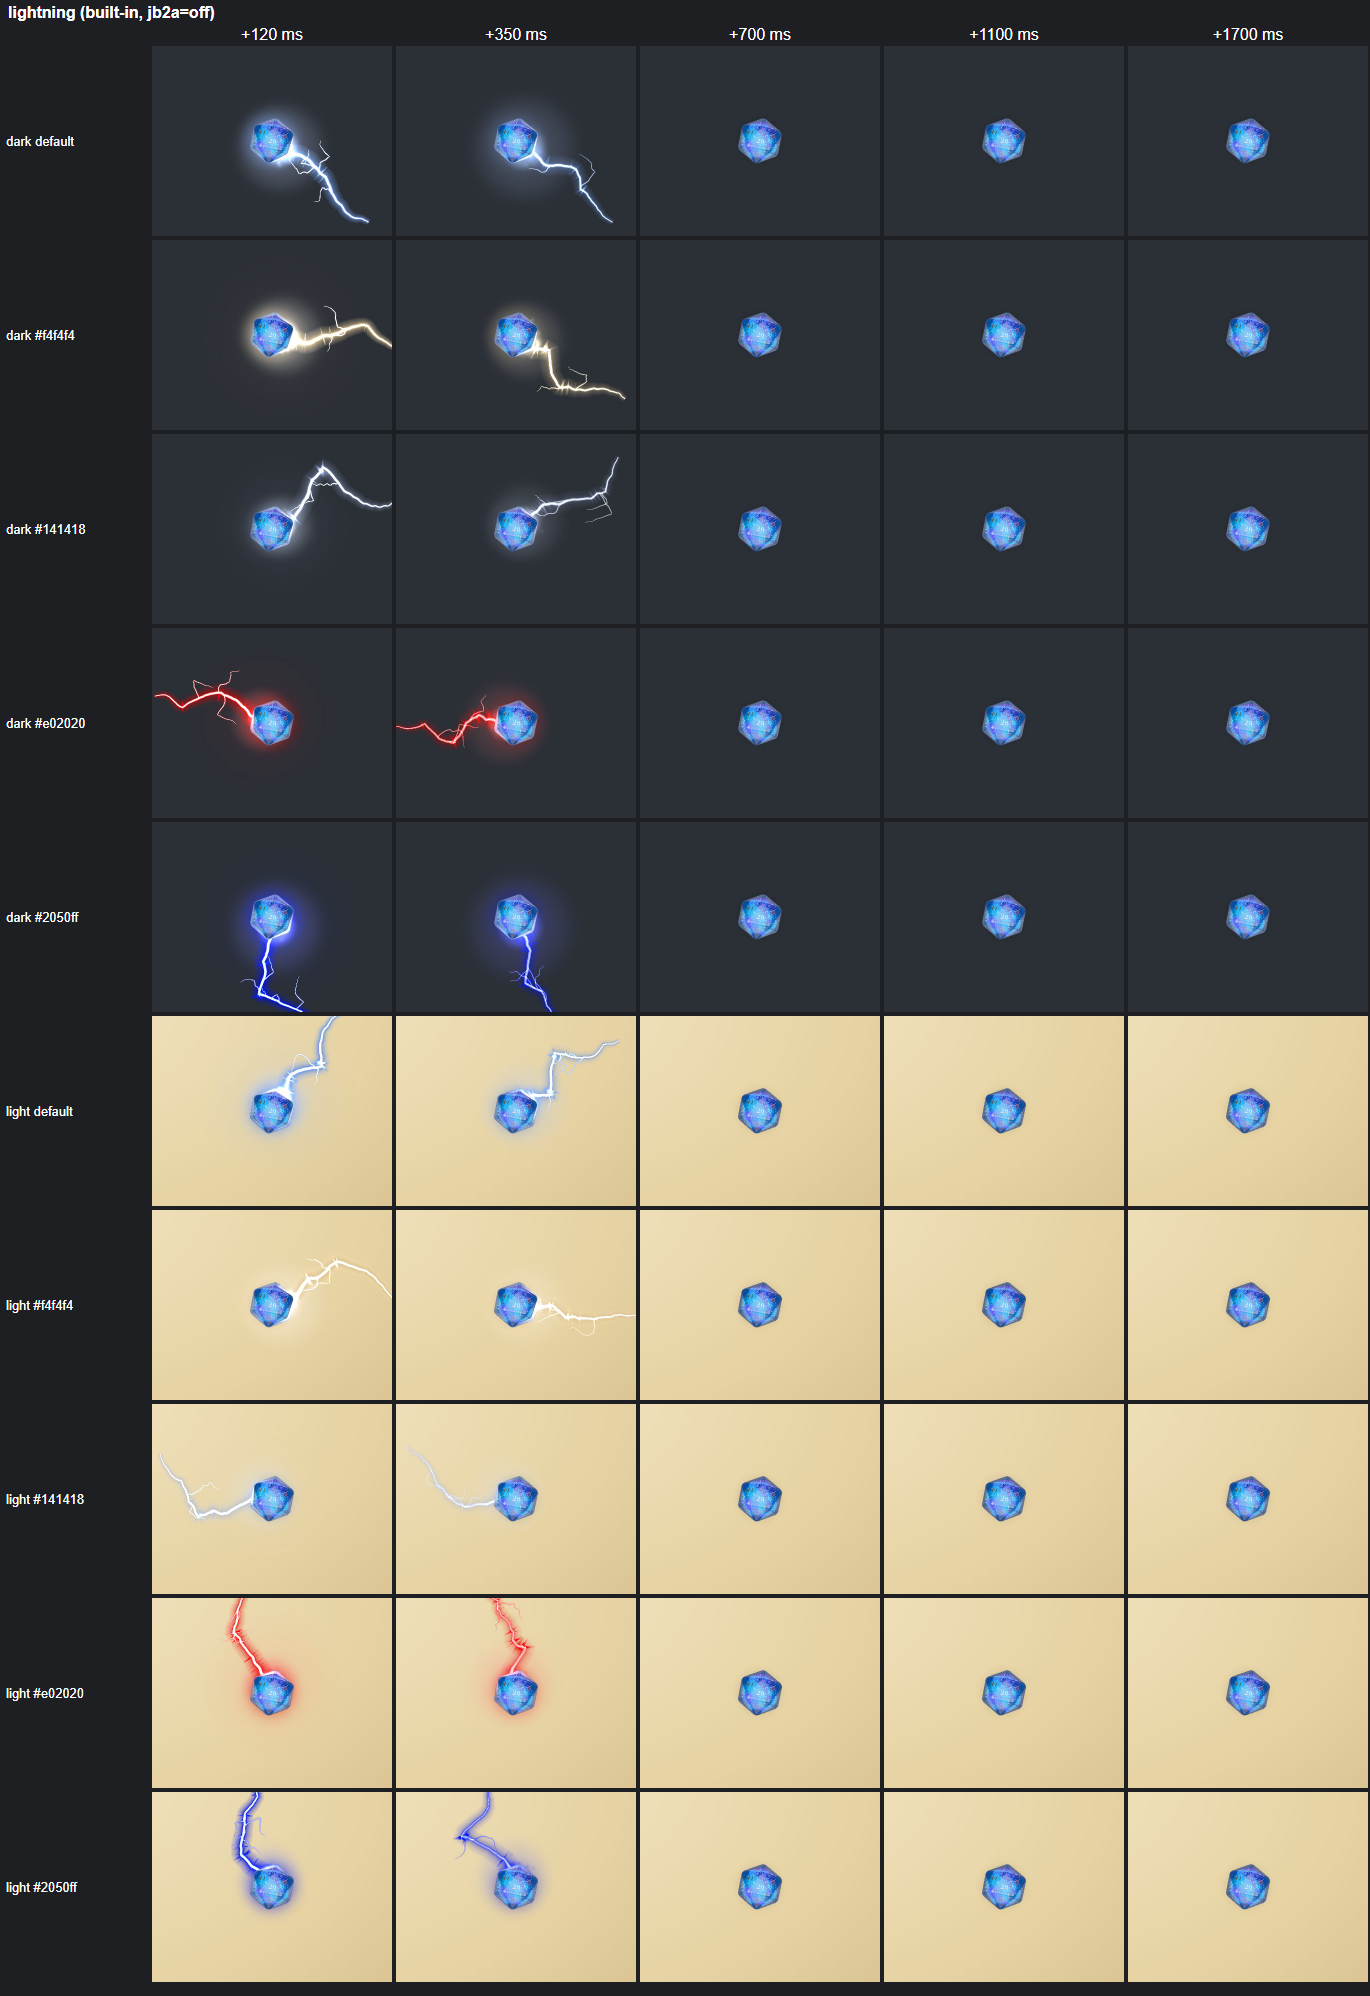
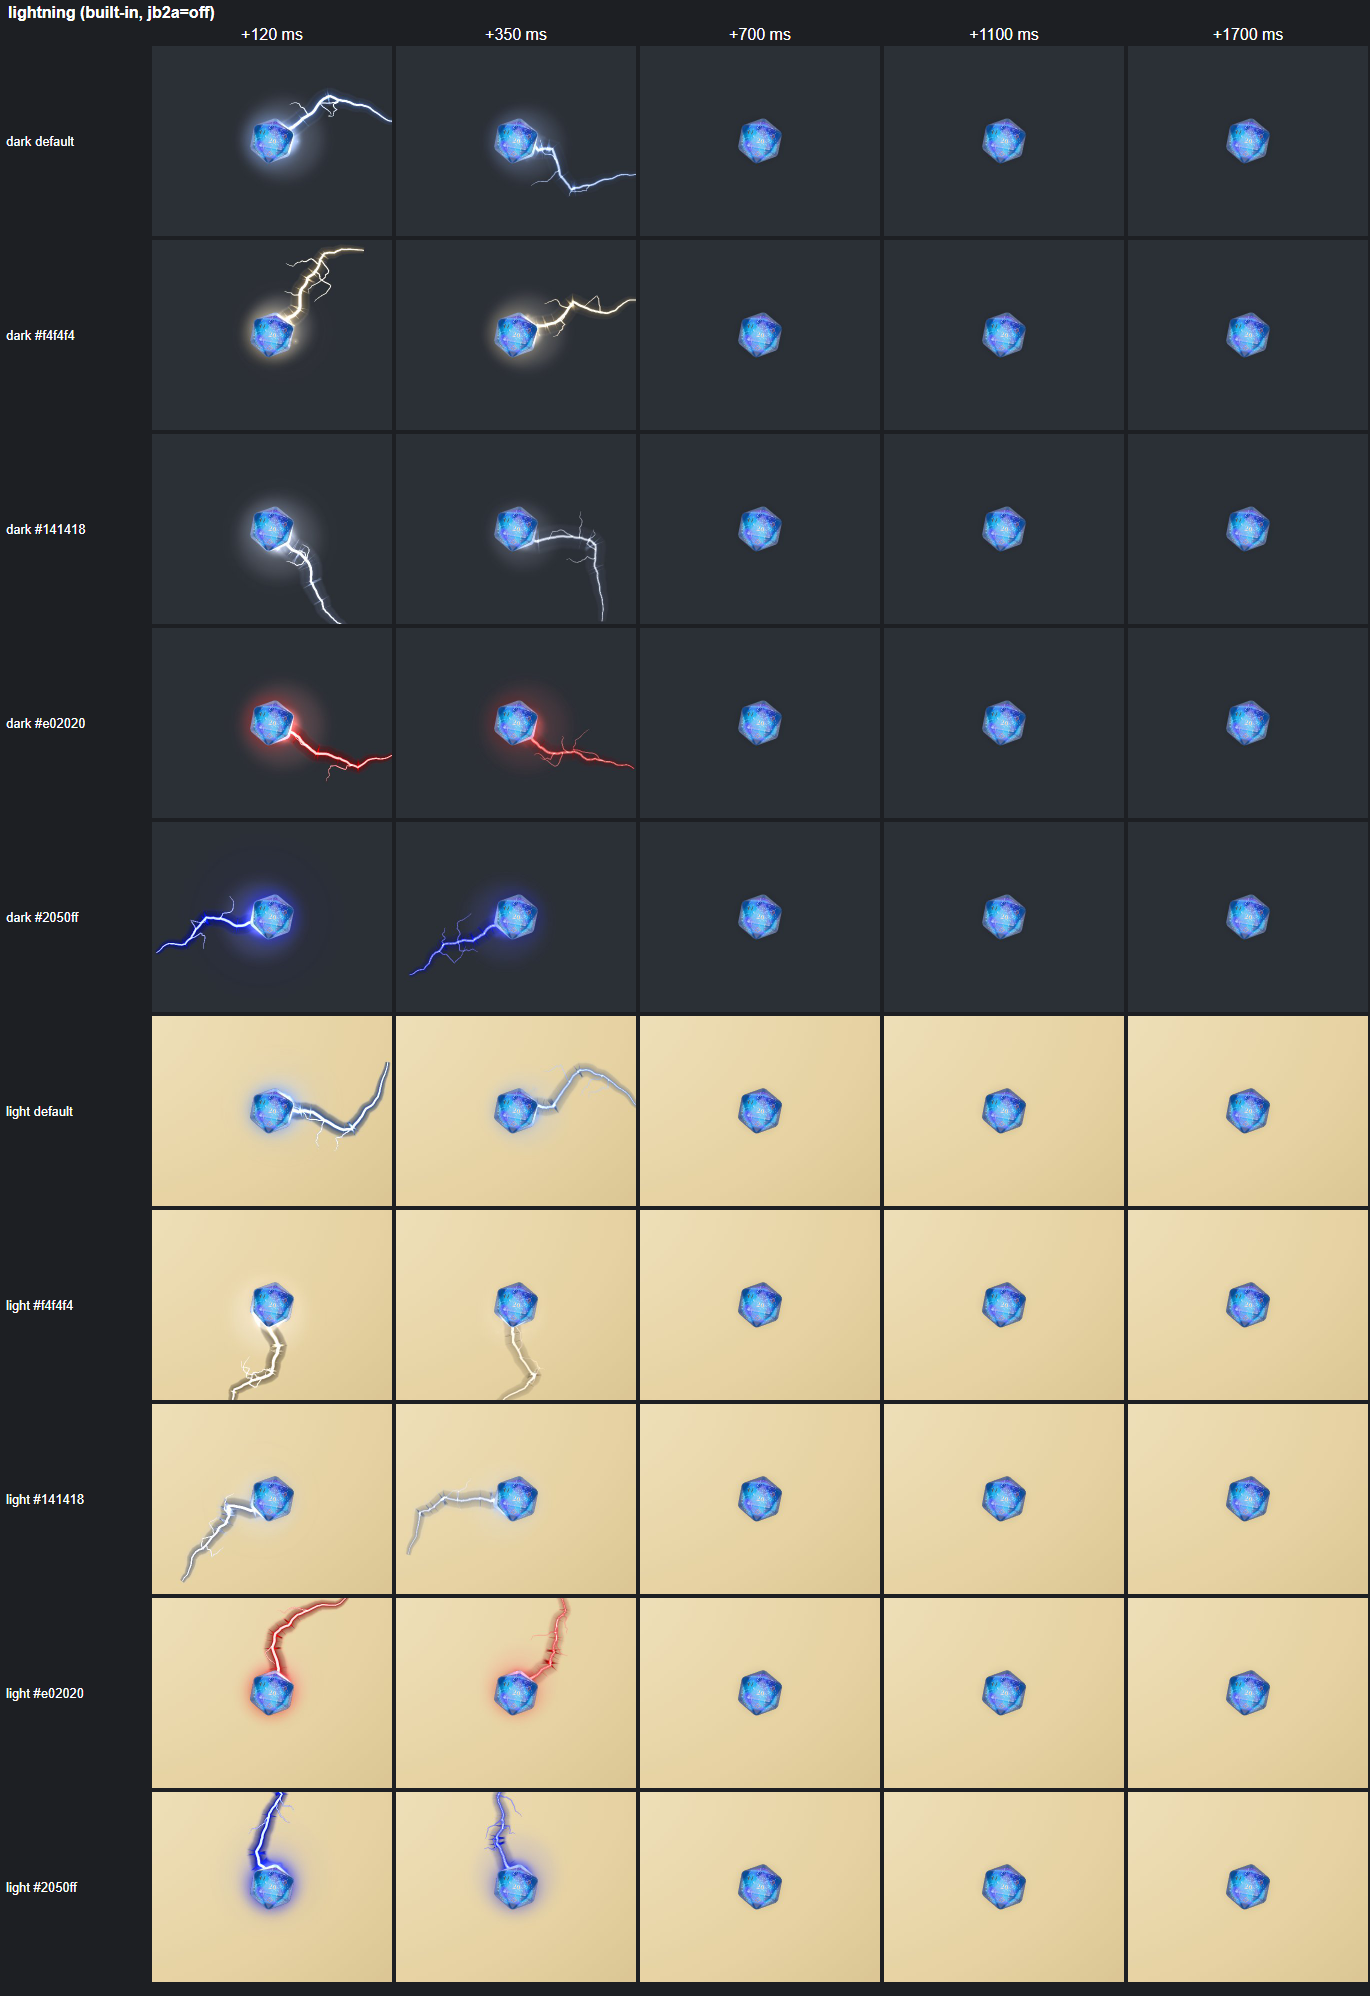
fix(fx): cap lightning brightness, strengthen pale and near-black glow
Per-layer alpha is capped at 1.5 and intensity above 1 grows the bolt
instead of brightening it (halo/shadow widths stop at k 1.2, floor glow
uses the clamped intensity), so colour survives at intensity 2. The dark
underlay is now white-profiled with a gain that follows the glow's
lightness, so pale bolts read on light maps; the near-black rim halo is
wider and stronger. Reduced motion holds one steady strike then fades.

diff --git a/src/effects/library/catalogue.js b/src/effects/library/catalogue.js
@@ -590,7 +590,8 @@ const BOLT_LEVELS = 6; // 65 points
 const BRANCH_LEVELS = 4; // 17 points
 const MAX_BRANCHES = 4;
 const STRIKES = [0, 0.22, 0.48]; // fractions of the duration
-const STRIKE_PEAK = [1.35, 1.2, 1.1]; // each re-strike flashes above the fading previous one
+const STRIKE_PEAK = [1.35, 1.2, 1.1];
+const ALPHA_CAP = 1.5; // per additive layer: brighter saturates to white and loses the colour // each re-strike flashes above the fading previous one
 // Width factor along a line: full at t = 0 (the impact end of the bolt, the root of a branch),
 // 30% at the tip. Held near full for the first stretch so the strike reads thick where it lands.
 // Black "over" (premultiplied): colour = dst x (1 - a), a = the ribbon's glow profile.
@@ -641,9 +642,18 @@ export const lightning = Object.freeze({
     const glowColor = pal.rim ?? pal.mid; // a near-black die glows in its rim colour
     const sparkColor = pal.rim ? pal.rim.clone().lerp(new THREE.Color(WHITE), 0.5) : pal.core;
     const k = sizeK(ctx);
+    // Above intensity 1 the bolt grows (k) but not brighter: additive layers past ~1.5 saturate to
+    // white and lose the die colour. Halo and shadow widths stop growing at k 1.2.
+    const kw = Math.min(k, 1.2);
+    const bright = Math.min(1, Math.max(0, ctx.intensity));
+    // Pale glows (near-white, the near-black rim) get a stronger dark band so they read on a light
+    // map; the near-black rim gets a wider, stronger halo so the die's glow is unmistakable.
+    const lum = glowColor.getHSL({}, THREE.SRGBColorSpace).l;
+    const shadowGain = 0.2 + 0.9 * lum;
+    const haloGain = pal.rim ? 1.5 : 1.2;
     const D = Math.max(1, ctx.duration);
-    const ribbon = (widthPx, maxPoints, core = 0.3, glow = 0.55) => {
-      const r = createRibbon({ maxPoints, widthPx, color: glowColor, taper: boltTaper, core, glow });
+    const ribbon = (widthPx, maxPoints, core = 0.3, glow = 0.55, color = glowColor) => {
+      const r = createRibbon({ maxPoints, widthPx, color, taper: boltTaper, core, glow });
       r.alpha = 0;
       ctx.scene.add(r.mesh); // r.dispose() removes it
       return r;
@@ -651,10 +661,11 @@ export const lightning = Object.freeze({
     const pts = 2 ** BOLT_LEVELS + 1;
     // A soft dark band under the bolt (drawn first, normal "over" in black): invisible on a dark
     // table, it gives a pale bolt contrast on a light map.
-    const shadow = ribbon(40 * k, pts, 0.02, 0.4);
+    // White, so its alpha (the brightest channel) is the full glow profile whatever the die colour.
+    const shadow = ribbon(52 * kw, pts, 0.02, 0.8, new THREE.Color(WHITE));
     Object.assign(shadow.mesh.material, SHADOW_BLEND);
     shadow.mesh.renderOrder = 2;
-    const halo = ribbon(64 * k, pts, 0.02, 0.4); // a wide soft bloom around the bolt
+    const halo = ribbon((pal.rim ? 80 : 64) * kw, pts, 0.02, pal.rim ? 0.5 : 0.4); // a wide soft bloom around the bolt
     const bolt = ribbon(14, pts, 0.65, 0.5);
     const branches = ribbon(7, MAX_BRANCHES * (2 ** BRANCH_LEVELS + 1), 0.5, 0.5);
     const ribbons = [shadow, halo, bolt, branches];
@@ -706,11 +717,14 @@ export const lightning = Object.freeze({
       const dt = e - times[i];
       const last = i === times.length - 1;
       // A sharp spike that settles to an afterglow; the last strike fades out by the duration.
+      if (ctx.reducedMotion) {
+        // One steady strike: held at its peak, then a single smooth fade over the last 40%.
+        return STRIKE_PEAK[0] * (1 - clamp01((e - 0.6 * D) / (0.4 * D))) ** 1.5;
+      }
       const tail = last ? (1 - clamp01(dt / Math.max(1, D - times[i]))) ** 1.5 : 1;
-      const decay = ctx.reducedMotion ? 1 : 0.5 + 0.5 * Math.exp(-dt / (0.12 * D));
-      return STRIKE_PEAK[i] * decay * tail;
+      return STRIKE_PEAK[i] * (0.5 + 0.5 * Math.exp(-dt / (0.12 * D))) * tail;
     };
-    const glow = floorGlow({ ...ctx, color: glowColor }, { radius: 1.8 * k, peak: 0.9, ms: D, curve: () => level });
+    const glow = floorGlow({ ...ctx, color: glowColor, intensity: bright }, { radius: 1.8 * k, peak: 0.9, ms: D, curve: () => level });
     const strikes = timed(
       D,
       (e, now) => {
@@ -720,11 +734,11 @@ export const lightning = Object.freeze({
         }
         const flicker = ctx.reducedMotion ? 1 : 0.85 + 0.15 * Math.random();
         level = flashAt(e) * flicker;
-        const a = Math.max(0, ctx.intensity) * level;
-        bolt.alpha = 1.3 * a;
-        branches.alpha = 1.1 * a;
-        halo.alpha = 1.8 * a;
-        shadow.alpha = 0.4 * a;
+        const a = bright * level;
+        bolt.alpha = Math.min(ALPHA_CAP, 1.1 * a);
+        branches.alpha = Math.min(ALPHA_CAP, a);
+        halo.alpha = Math.min(ALPHA_CAP, haloGain * a);
+        shadow.alpha = Math.min(ALPHA_CAP, shadowGain * a);
       },
       () => {
         for (const r of ribbons) r.dispose();

diff --git a/tests/unit/catalogue.test.js b/tests/unit/catalogue.test.js
@@ -385,6 +385,38 @@ describe('lightning', () => {
     expect(strikes({ reducedMotion: true })).toEqual([0]);
   });
 
+  /** Steps a 1000 ms strike every 10 ms; returns each ribbon's uAlpha per frame. */
+  const alphas = (over = {}) => {
+    const scene = new THREE.Scene();
+    const pool = createParticlePool(scene, 256);
+    const ctx = ctxFor(EFFECTS.lightning, { scene, pool, duration: 1000, ...over });
+    const h = EFFECTS.lightning.start(ctx);
+    const ribbons = scene.children.filter((c) => c.material?.uniforms?.uWidthPx);
+    const frames = [];
+    for (let t = 0; t < 1000; t += 10) {
+      h.update(t);
+      frames.push(ribbons.map((r) => r.material.uniforms.uAlpha.value));
+    }
+    h.stop();
+    pool.dispose();
+    return frames;
+  };
+
+  test('lightning brightness is capped: at intensity 2 no layer alpha exceeds 1.5; intensity 0.3 still draws', () => {
+    for (const color of ['#b9d4ff', '#141418', '#e02020']) {
+      const hot = alphas({ intensity: 2, color: new THREE.Color(color) }).flat();
+      expect(Math.max(...hot), color).toBeLessThanOrEqual(1.5);
+    }
+    const dim = alphas({ intensity: 0.3 }).flat();
+    expect(Math.max(...dim)).toBeGreaterThan(0.1);
+  });
+
+  test('lightning with ctx.reducedMotion holds a constant, flicker-free alpha through its strike', () => {
+    const frames = alphas({ reducedMotion: true }).slice(1, 50); // 10..490 ms
+    for (const f of frames) expect(f).toEqual(frames[0]);
+    expect(Math.max(...frames[0])).toBeGreaterThan(0);
+  });
+
   test('lightning bolt tapers', () => {
     const scene = new THREE.Scene();
     const pool = createParticlePool(scene, 256);
